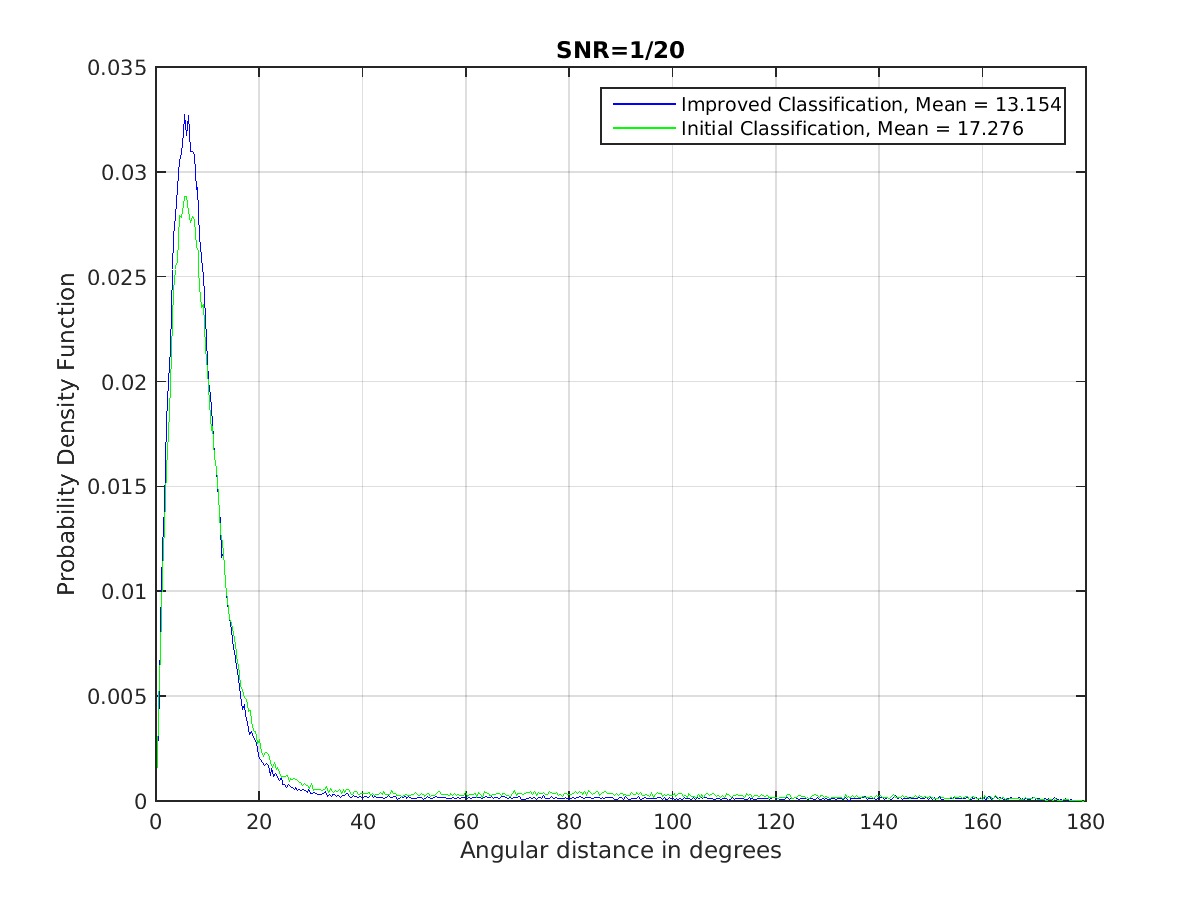
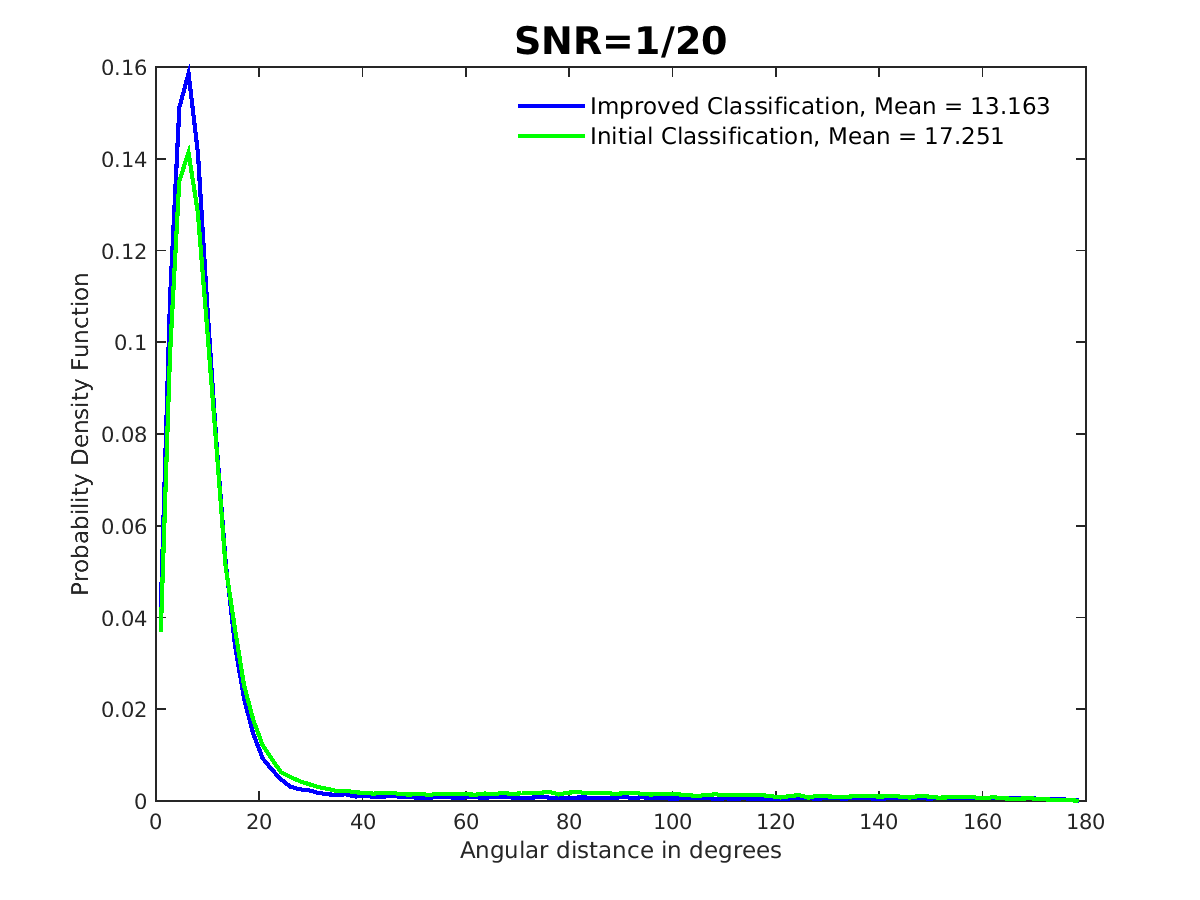
font size 1/20 fig

diff --git a/paperfig_hist.m b/paperfig_hist.m
@@ -35,7 +35,7 @@ run ~/cwf_denoise/cwf_paths.m
 tic;
 clear all;
 K = 10000; %K is the number of images
-SNR = 1/40; %SNR
+SNR = 1/20; %SNR
 use_shifted=0;
 
 if(use_shifted)
@@ -218,4 +218,5 @@ fname=sprintf('fighist_snr1by%d.png',1/SNR)
 fpath = '~/cwf_classavg/paper/';
 print('-dpng',fullfile(fpath, fname)); % Save as vector graphics
 
-
+fpath = sprintf('/scratch/ARCHIVE_from_sdl6/tbhamre/classavg_paper_data/mah_hist_snr1by%d.mat',1/SNR);
+save(fpath,'ang_dm', 'ang_df')
